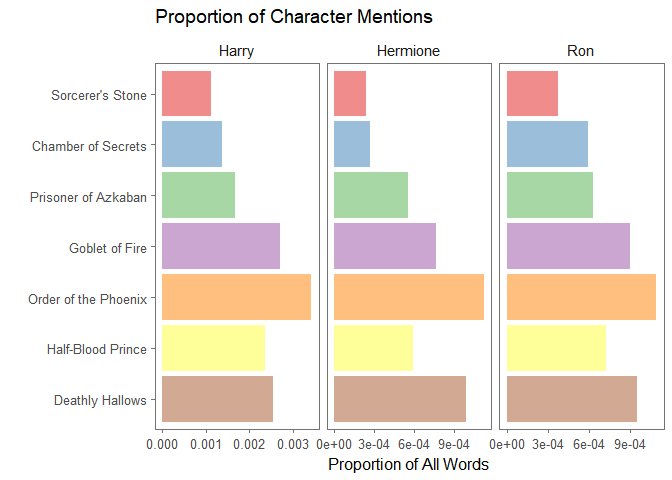
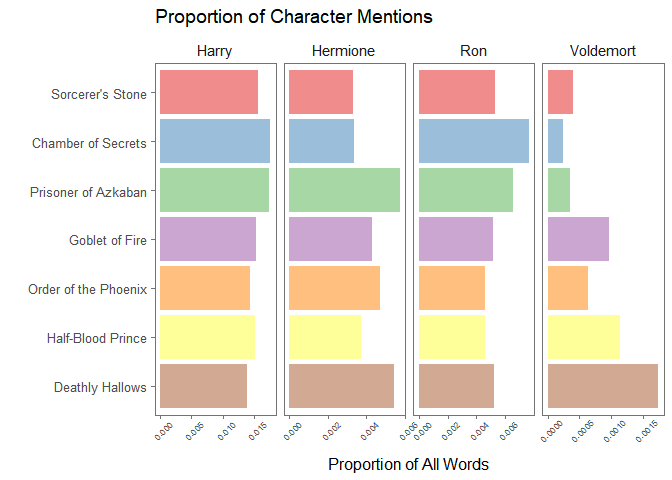
labels and fixing error on proportion

diff --git a/Harry_Potter_Text_Analysis.md b/Harry_Potter_Text_Analysis.md
@@ -53,13 +53,14 @@ This gives us one word per row with identifiers for the book and chapter.
 Character Mentions
 ------------------
 
-I've identified the 3 main characters as our characters of interest. Let's find out which book has the most (by percentage of words) mentions of each character.
+I've identified the 4 main characters as our characters of interest. Let's find out which book has the most (by percentage of words) mentions of each character.
 
 ``` r
-characters_of_interest <- c("harry" = "Harry", "ron" = "Ron", "hermione" = "Hermione")
+characters_of_interest <- c("harry" = "Harry", "ron" = "Ron", "hermione" = "Hermione", "voldemort" = "Voldemort")
 
 all_books_raw %>%
   count(book, word) %>%
+  group_by(book) %>%
   mutate(freq_by_book = n/sum(n)) %>%
   filter(word %in% names(characters_of_interest)) %>%
   ggplot(aes(x = book, y = freq_by_book, fill = book)) + 
@@ -71,12 +72,13 @@ all_books_raw %>%
   labs(title = "Proportion of Character Mentions", x = "", y = "Proportion of All Words") +
   theme_few() +
   theme(strip.background = element_blank(),
-        strip.text = element_text(size = 11))
+        strip.text = element_text(size = 11),
+        axis.text.x = element_text(size = 7, angle = 45, vjust = .75))
 ```
 
 ![](Harry_Potter_Text_Analysis_files/figure-markdown_github/unnamed-chunk-3-1.png)
 
-Now let's find out the popularity of each character within each book. For example, we can look at how many times Ron was mentioned compared to the total mentions of all three characters.
+Now let's find out the popularity of each character within each book. For example, we can look at how many times Ron was mentioned compared to the total mentions of all 4 characters.
 
 ``` r
 all_books_raw %>%
@@ -86,7 +88,7 @@ all_books_raw %>%
   mutate(char_freq_by_book = n/sum(n)) %>%
   ggplot(aes(x = book, y = char_freq_by_book, fill = word)) + 
   geom_bar(stat = "identity", alpha = .7, position = "dodge") +
-  scale_fill_brewer(palette = "Dark2", labels = c("Harry", "Hermione", "Ron")) +
+  scale_fill_brewer(palette = "Dark2", labels = c("Harry", "Hermione", "Ron", "Voldemort")) +
   scale_x_discrete(limits = rev(levels(all_books_raw$book))) + 
   coord_flip() +
   labs(title = "Character Mentions Relative to Each Other", x = "", 
